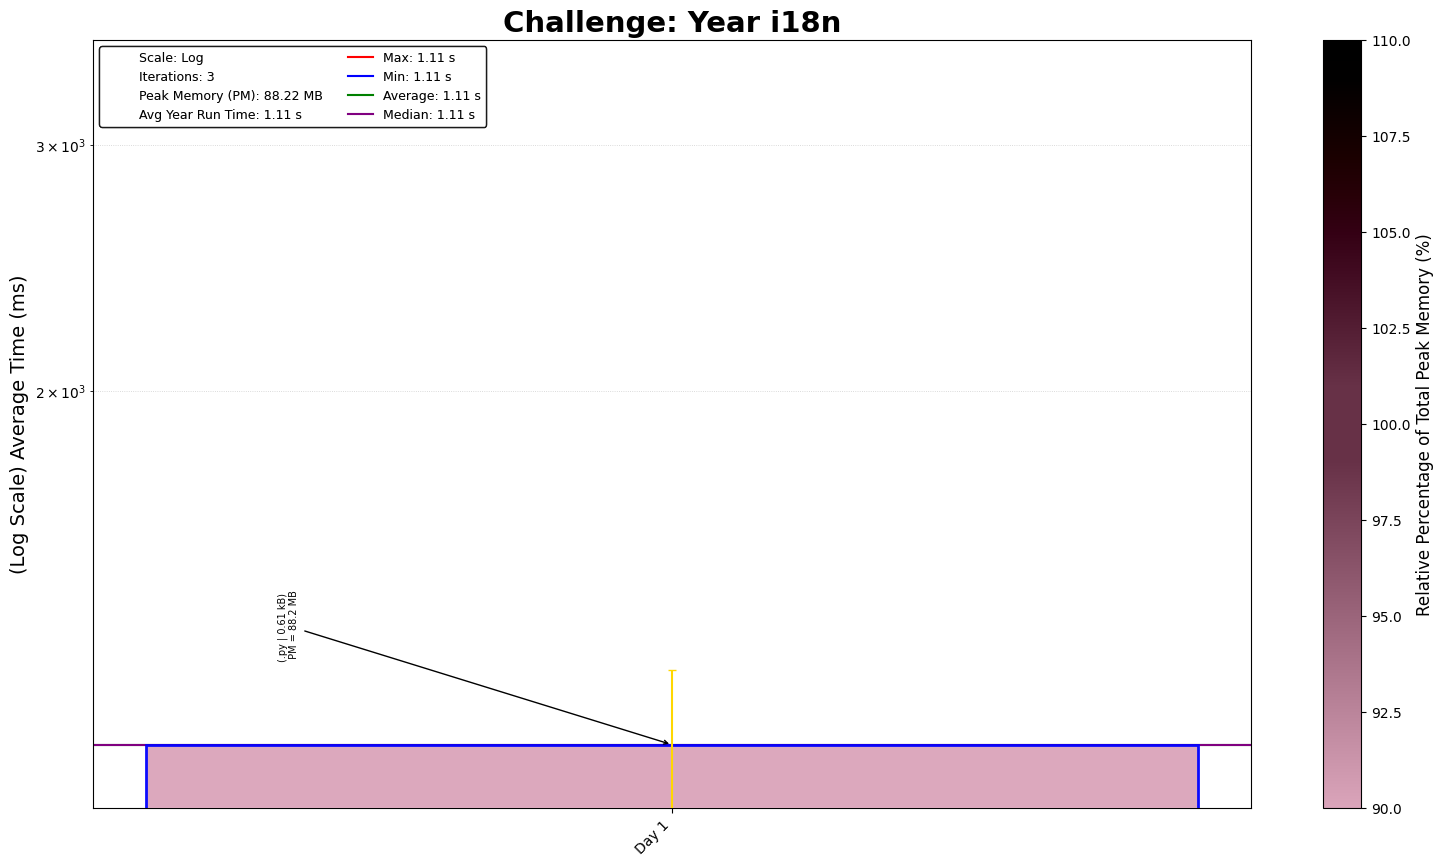
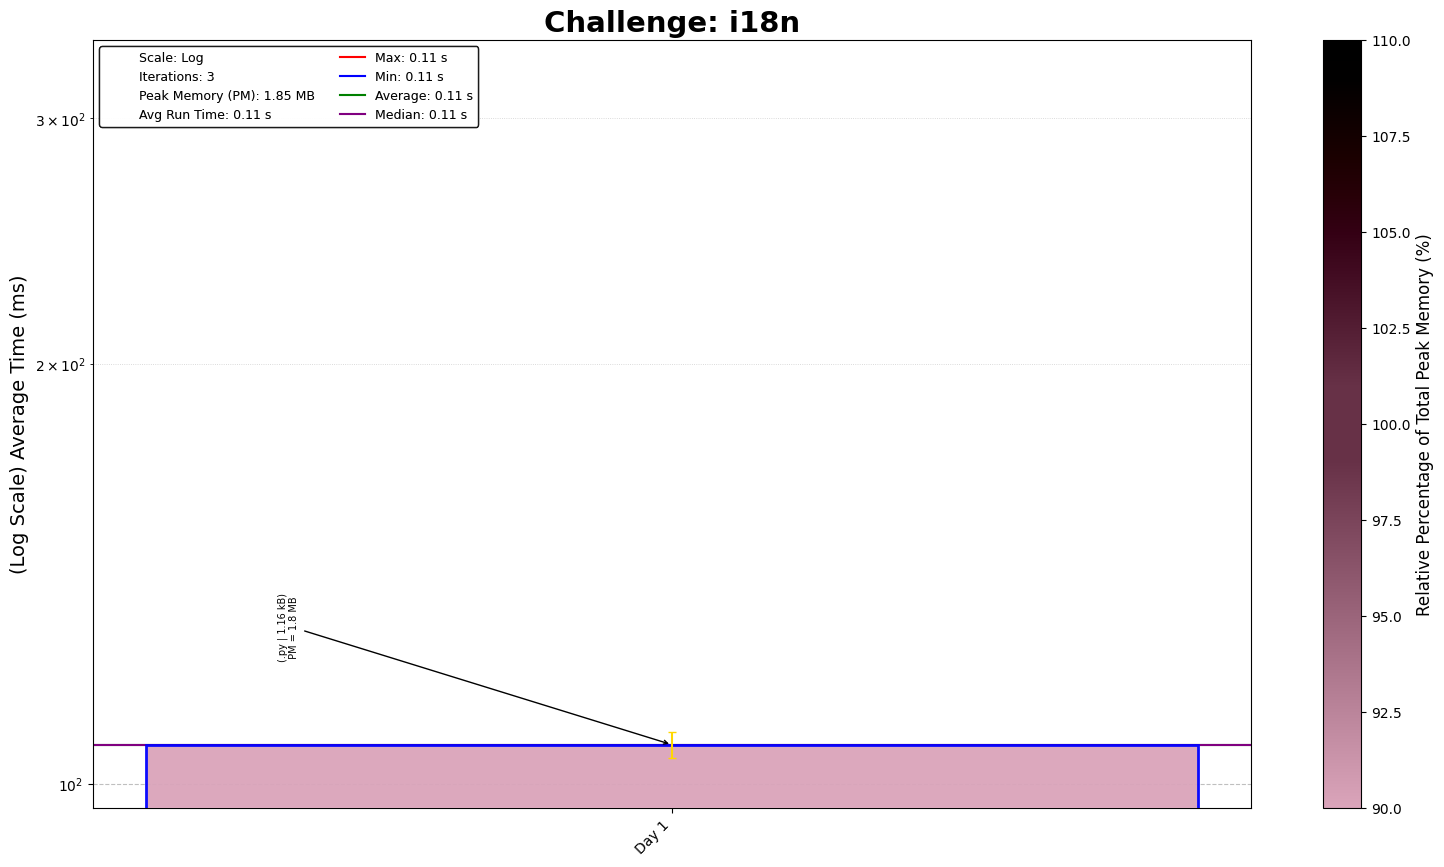
i18n Day 01

diff --git a/i18n/01/i18nDay01.py b/i18n/01/i18nDay01.py
@@ -1,22 +1,43 @@
-"""Challenge Code - Day 1, Year i18n
-Solution Started: Mar 6, 2025
+"""i18n Puzzles - Puzzle 1
+Solution Started: Mar 7, 2025
 Puzzle Link: https://i18n-puzzles.com/puzzle/1/
 Solution by: Abbas Moosajee
-Brief: [Code/Problem Description]
+Brief: [Message Length Limits]
 """
 
 #!/usr/bin/env python3
 
 import os, re, copy
-import numpy as np
-import pandas as pd
-import matplotlib.pyplot as plt
 
 # Load the input data from the specified file path
 D01_file = "Day01_input.txt"
 D01_file_path = os.path.join(os.path.dirname(os.path.abspath(__file__)), D01_file)
 
 # Read and sort input data into a grid
-with open(D01_file_path) as file:
-    input_data = file.read().strip().split('\n')
-print(input_data)
+with open(D01_file_path, encoding="utf-8") as file:
+    input_data = file.read().strip().split("\n")
+
+MESSAGE_COSTS = {"NONE": 0, "TWEET": 7, "SMS": 11, "BOTH": 13}
+
+total_cost = 0
+
+for message in input_data:
+    characters = len(message)
+    bytes_size = len(message.encode("utf-8"))
+
+    if characters <= 140 and bytes_size <= 160:
+        message_type = "BOTH"
+    elif characters <= 140:
+        message_type = "TWEET"
+    elif bytes_size <= 160:
+        message_type = "SMS"
+    else:
+        message_type = "NONE"
+
+    cost = MESSAGE_COSTS[message_type]
+    total_cost += cost
+
+    # Debugging (optional)
+    # print(f"{characters=}, {bytes_size=}, {message_type=}, {cost=}, {total_cost=}")
+
+print("Total Cost:", total_cost)

diff --git a/Benchmarks/visualization.py b/Benchmarks/visualization.py
@@ -118,7 +118,7 @@ def create_plot(df, challenge, Year, Iters, save_dir, center_color="#4CAF50", sc
     ax.set_xticks(days)
     ax.set_xticklabels([f'Day {int(day)}' for day in days], rotation=45, ha='right')  # Ensure days are displayed as integers
     ax.set_ylabel(f"({scale.capitalize()} Scale) Average Time (ms)", fontsize=14)
-    ax.set_title(f'{challenge}: Year {Year}',
+    ax.set_title(f'{challenge}: {Year}',
                     fontsize=21, fontweight='bold')
 
     # Add grid and legend
@@ -134,7 +134,7 @@ def create_plot(df, challenge, Year, Iters, save_dir, center_color="#4CAF50", sc
         plt.Line2D([0], [0], color='white', label=f"Scale: {scale.capitalize()}"),
         plt.Line2D([0], [0], color='white', label=f"Iterations: {Iters}"),
         plt.Line2D([0], [0], color='white', label=f"Peak Memory (PM): {total_mem:.2f} MB"),
-        plt.Line2D([0], [0], color='white', label=f"Avg Year Run Time: {total_time/1000:.2f} s"),
+        plt.Line2D([0], [0], color='white', label=f"Avg Run Time: {total_time/1000:.2f} s"),
     ]
 
     # Existing legend items (e.g., for average, median, max, min)

diff --git a/Benchmarks/performance_analysis.py b/Benchmarks/performance_analysis.py
@@ -122,7 +122,7 @@ def create_table(file_info, times_taken, peak_memory_usage, num_iterations, year
 
     # Add additional info
     table_lines.append("\n")
-    table_lines.append(f"Year: {year}, Iterations: {num_iterations}")
+    table_lines.append(f"Challenge: {year}, Iterations: {num_iterations}")
 
     # Create a DataFrame from the collected data
     df = pd.DataFrame(data_for_df, columns=headers)

diff --git a/Create_Script.py b/Create_Script.py
@@ -41,7 +41,7 @@ def generate_header(day, year, author):
     month = time.strftime('%b', current_time)
 
     # Construct the header content
-    header = f"""Challenge Code - Day {day}, Year {year}
+    header = f"""i18n Puzzles - Puzzle {day}
 Solution Started: {month} {current_time.tm_mday}, {current_time.tm_year}
 Puzzle Link: https://i18n-puzzles.com/puzzle/{day}/
 Solution by: {author}

diff --git a/i18n/Run_i18n.py b/i18n/Run_i18n.py
@@ -1,8 +1,8 @@
-# Challenge - 2024
-# # Solved in {2024}
-# Puzzle Link: https://challenge.com/event/2024/
-# Solution by: [author]
-# Brief: [Run all 2024 scripts]
+# Challenge - 2025
+# # Solved in {2025}
+# Puzzle Link: https://i18n-puzzles.com/
+# Solution by: [Abbas Moosajee]
+# Brief: [Run all 2025 scripts]
 
 #!/usr/bin/env python3
 import os

diff --git a/i18n/README_i18n.md b/i18n/README_i18n.md
@@ -1,0 +1,8 @@
+# i18n Puzzles - Coding Challenge Summaries
+
+This repository contains coding solutions for the i18n puzzles.
+![i18n Run Time](i18n_Log_plot.png)
+## Day-by-Day Coding Overview
+
+1. **Puzzle 1 - Length limits on messaging platforms**: Fairly simple problem of determining costs of message based on number of characters and bytes, after I got passed the initial problem of UTF-8 format encoding
+---
